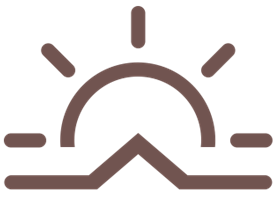
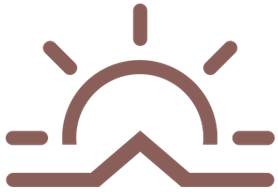
Updating colors, pictures and background image

diff --git a/src/style.css b/src/style.css
@@ -1,5 +1,5 @@
 body {
-  background-image: url("../../vanilla-weather-app/src/pictures/background.jpg");
+  background-image: url("../src/pictures/background.jpg");
 }
 html,
 body {
@@ -31,34 +31,34 @@ li {
 
 a {
   text-decoration: none;
-  color: #9f5c4c;
+  color: #b25a49;
   transition: all 200ms ease-in-out;
 }
 a:hover {
   text-decoration: none;
-  color: #9f5c4c;
+  color: #b25a49;
   transition: all 200ms ease-in-out;
   font-weight: bold;
   cursor: default;
 }
 
 small {
-  color: #d35471;
+  color: #f15372;
   font-weight: bold;
 }
 a.contact {
   text-decoration: none;
-  color: #d35471;
+  color: #f15372;
   transition: all 200ms ease-in-out;
 }
 
 a.contact:hover {
-  color: #febe54;
+  color: #ffbd54;
   font-weight: bold;
 }
 
 a.active {
-  color: #d35471;
+  color: #f15372;
   font-weight: bold;
 }
 
@@ -74,14 +74,14 @@ div.col-sm-3 {
 .form-control:focus {
   outline: none;
   box-shadow: none;
-  border-color: #9f5c4c;
-  color: #d35471;
+  border-color: #b25a49;
+  color: #f15372;
   font-weight: bold;
 }
 
 .searchButton {
   color: #ffff;
-  background-color: #d35471;
+  background-color: #f15372;
   width: 120px;
   font-size: 0.875rem;
   margin-left: 20px;
@@ -93,11 +93,11 @@ div.col-sm-3 {
   transition: all 200ms ease;
 }
 .searchButton:hover {
-  background-color: #9f5c4c;
+  background-color: #b25a49;
 }
 .searchButton:focus {
   color: #ffff;
-  background-color: #d35471;
+  background-color: #f15372;
   font-size: 0.875rem;
   font-weight: 900;
   padding: 0.5rem;
@@ -109,7 +109,7 @@ div.col-sm-3 {
 
 .currentLocationButton {
   color: #ffff;
-  background-color: #d35471;
+  background-color: #f15372;
   width: 120px;
   font-size: 0.875rem;
   font-weight: 900;
@@ -120,12 +120,12 @@ div.col-sm-3 {
   transition: all 200ms ease;
 }
 .currentLocationButton:hover {
-  background-color: #9f5c4c;
+  background-color: #b25a49;
 }
 
 .currentLocationButton:focus {
   color: #ffff;
-  background-color: #d35471;
+  background-color: #f15372;
   font-size: 0.875rem;
   font-weight: 900;
   padding: 0.5rem;
@@ -141,10 +141,10 @@ div.col-sm-3 {
 }
 .vanilla-weather-app {
   margin: 0 auto;
-  color: #d35471;
-  background-color: #ffdfac;
+  color: #f15372;
+  background-color: #ffdda5;
   padding: 40px;
-  border: 5px solid #d35471;
+  border: 5px solid #f15372;
   border-radius: 15px;
 }
 
@@ -171,7 +171,7 @@ div.col-sm-3 {
 }
 
 .mainPicture {
-  color: #9f5c4c;
+  color: #b25a49;
   font-size: 120px;
   padding: 0;
   margin: 0 auto;
@@ -216,7 +216,7 @@ div.col-sm-3 {
 }
 
 .forecastIcon {
-  color: #9f5c4c;
+  color: #b25a49;
   font-size: 60px;
   padding-top: 10px;
   padding-bottom: 10px;
